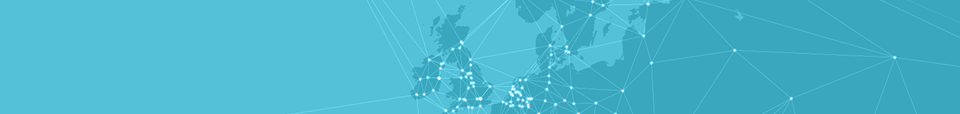
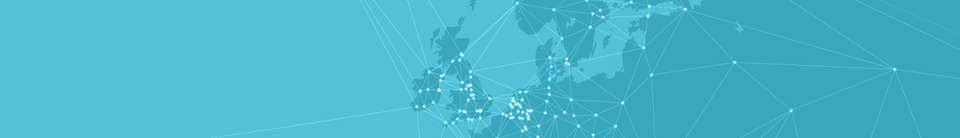
Updated header map

diff --git a/app/assets/stylesheets/main.css.scss b/app/assets/stylesheets/main.css.scss
@@ -3,7 +3,7 @@
   width: 960px;
 
   .title {
-    padding: 48px 18px 18px;
+    padding: 72px 18px 18px;
     color: #fff;
     @include border-radius(3px);
     background: url(image-path("header-map.png")) no-repeat;
